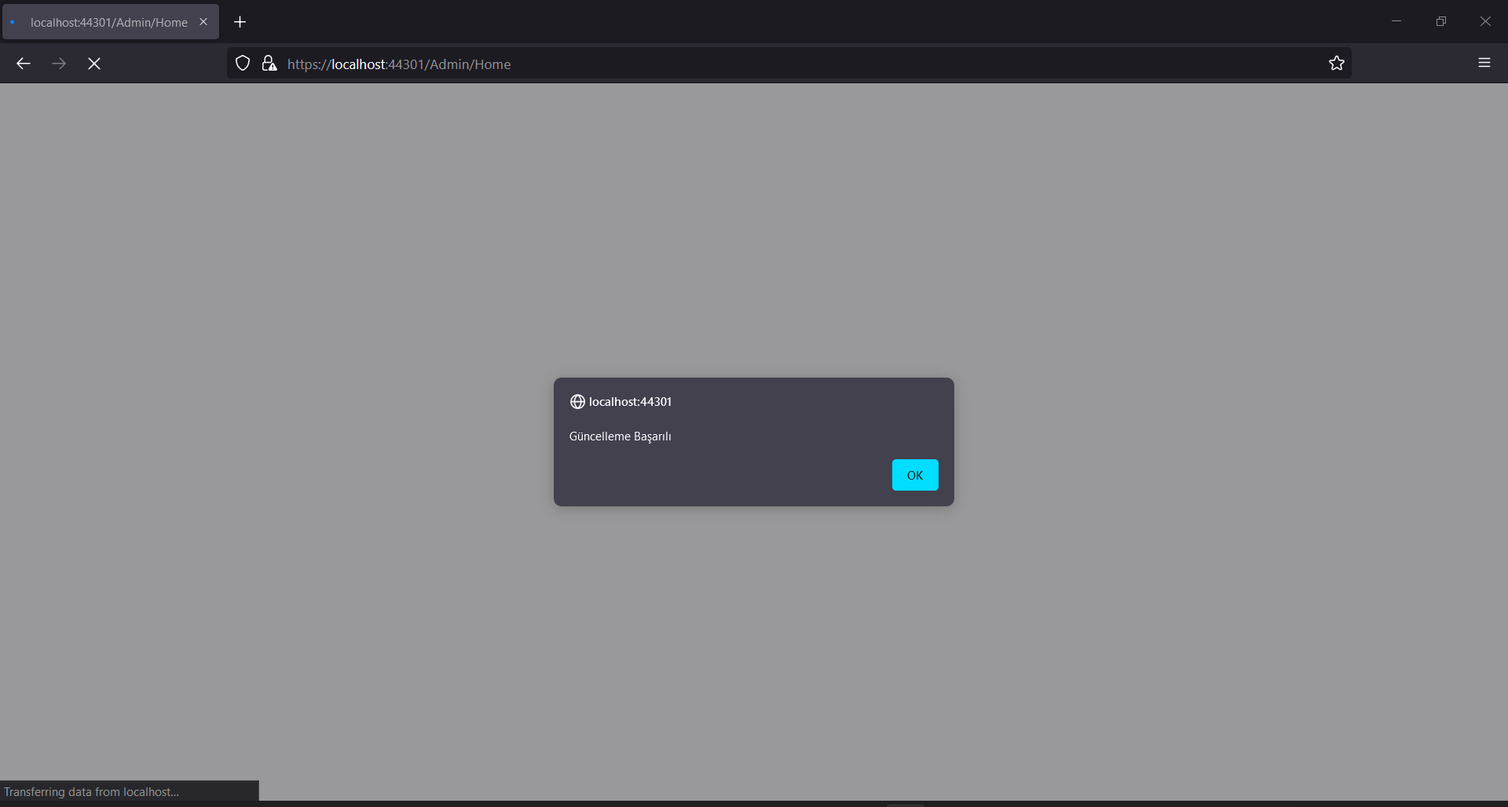
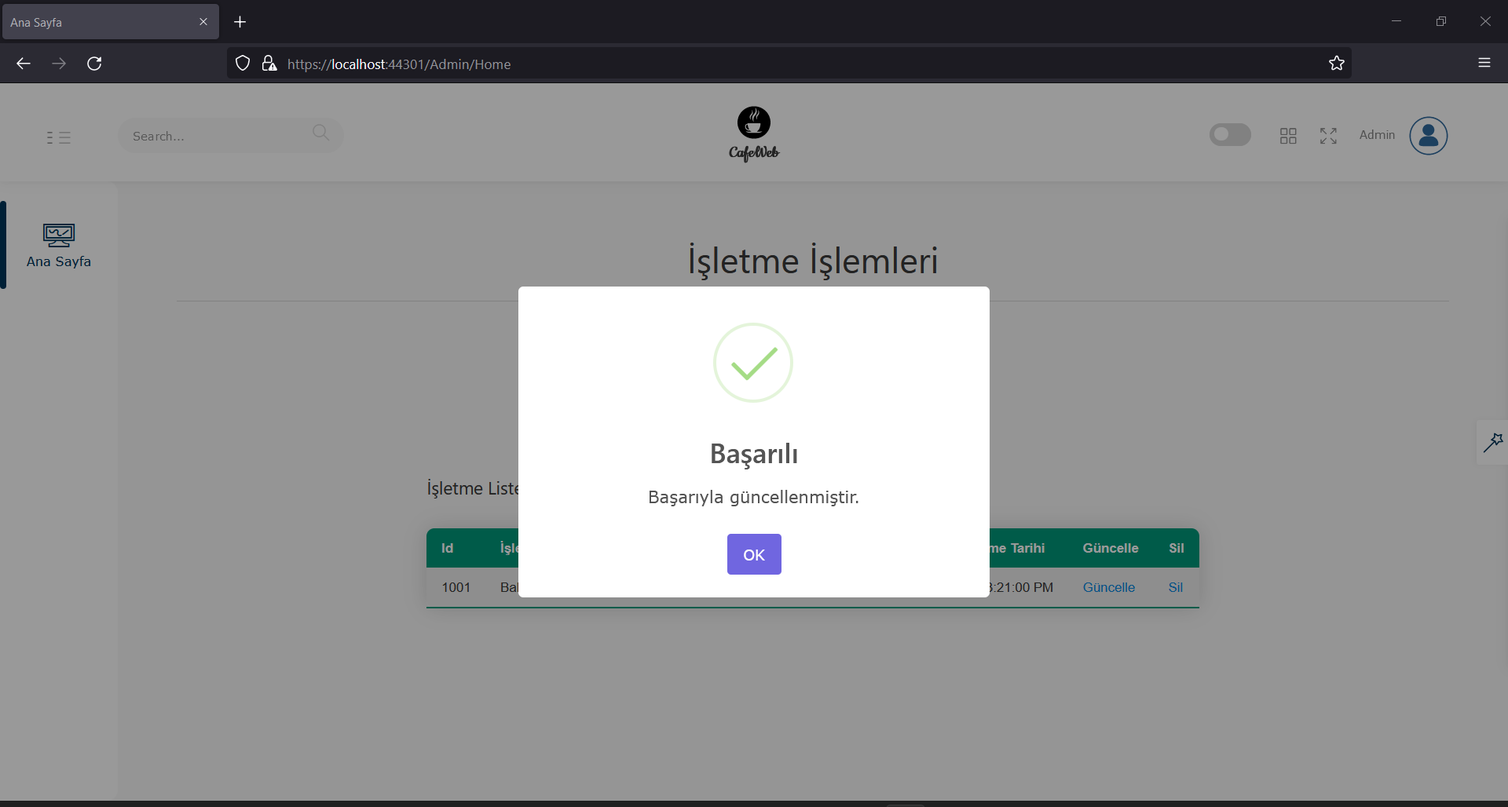
Popup ekran güncellemesi ve bazı kontroller

diff --git a/CafeWeb/Users/assets/css/sweetalert2.min.css b/CafeWeb/Users/assets/css/sweetalert2.min.css
@@ -1,0 +1,1 @@
+.swal2-popup.swal2-toast{box-sizing:border-box;grid-column:1/4!important;grid-row:1/4!important;grid-template-columns:1fr 99fr 1fr;padding:1em;overflow-y:hidden;background:#fff;box-shadow:0 0 1px rgba(0,0,0,.075),0 1px 2px rgba(0,0,0,.075),1px 2px 4px rgba(0,0,0,.075),1px 3px 8px rgba(0,0,0,.075),2px 4px 16px rgba(0,0,0,.075);pointer-events:all}.swal2-popup.swal2-toast>*{grid-column:2}.swal2-popup.swal2-toast .swal2-title{margin:.5em 1em;padding:0;font-size:1em;text-align:initial}.swal2-popup.swal2-toast .swal2-loading{justify-content:center}.swal2-popup.swal2-toast .swal2-input{height:2em;margin:.5em;font-size:1em}.swal2-popup.swal2-toast .swal2-validation-message{font-size:1em}.swal2-popup.swal2-toast .swal2-footer{margin:.5em 0 0;padding:.5em 0 0;font-size:.8em}.swal2-popup.swal2-toast .swal2-close{grid-column:3/3;grid-row:1/99;align-self:center;width:.8em;height:.8em;margin:0;font-size:2em}.swal2-popup.swal2-toast .swal2-html-container{margin:.5em 1em;padding:0;font-size:1em;text-align:initial}.swal2-popup.swal2-toast .swal2-html-container:empty{padding:0}.swal2-popup.swal2-toast .swal2-loader{grid-column:1;grid-row:1/99;align-self:center;width:2em;height:2em;margin:.25em}.swal2-popup.swal2-toast .swal2-icon{grid-column:1;grid-row:1/99;align-self:center;width:2em;min-width:2em;height:2em;margin:0 .5em 0 0}.swal2-popup.swal2-toast .swal2-icon .swal2-icon-content{display:flex;align-items:center;font-size:1.8em;font-weight:700}.swal2-popup.swal2-toast .swal2-icon.swal2-success .swal2-success-ring{width:2em;height:2em}.swal2-popup.swal2-toast .swal2-icon.swal2-error [class^=swal2-x-mark-line]{top:.875em;width:1.375em}.swal2-popup.swal2-toast .swal2-icon.swal2-error [class^=swal2-x-mark-line][class$=left]{left:.3125em}.swal2-popup.swal2-toast .swal2-icon.swal2-error [class^=swal2-x-mark-line][class$=right]{right:.3125em}.swal2-popup.swal2-toast .swal2-actions{justify-content:flex-start;height:auto;margin:0;margin-top:.5em;padding:0 .5em}.swal2-popup.swal2-toast .swal2-styled{margin:.25em .5em;padding:.4em .6em;font-size:1em}.swal2-popup.swal2-toast .swal2-success{border-color:#a5dc86}.swal2-popup.swal2-toast .swal2-success [class^=swal2-success-circular-line]{position:absolute;width:1.6em;height:3em;transform:rotate(45deg);border-radius:50%}.swal2-popup.swal2-toast .swal2-success [class^=swal2-success-circular-line][class$=left]{top:-.8em;left:-.5em;transform:rotate(-45deg);transform-origin:2em 2em;border-radius:4em 0 0 4em}.swal2-popup.swal2-toast .swal2-success [class^=swal2-success-circular-line][class$=right]{top:-.25em;left:.9375em;transform-origin:0 1.5em;border-radius:0 4em 4em 0}.swal2-popup.swal2-toast .swal2-success .swal2-success-ring{width:2em;height:2em}.swal2-popup.swal2-toast .swal2-success .swal2-success-fix{top:0;left:.4375em;width:.4375em;height:2.6875em}.swal2-popup.swal2-toast .swal2-success [class^=swal2-success-line]{height:.3125em}.swal2-popup.swal2-toast .swal2-success [class^=swal2-success-line][class$=tip]{top:1.125em;left:.1875em;width:.75em}.swal2-popup.swal2-toast .swal2-success [class^=swal2-success-line][class$=long]{top:.9375em;right:.1875em;width:1.375em}.swal2-popup.swal2-toast .swal2-success.swal2-icon-show .swal2-success-line-tip{-webkit-animation:swal2-toast-animate-success-line-tip .75s;animation:swal2-toast-animate-success-line-tip .75s}.swal2-popup.swal2-toast .swal2-success.swal2-icon-show .swal2-success-line-long{-webkit-animation:swal2-toast-animate-success-line-long .75s;animation:swal2-toast-animate-success-line-long .75s}.swal2-popup.swal2-toast.swal2-show{-webkit-animation:swal2-toast-show .5s;animation:swal2-toast-show .5s}.swal2-popup.swal2-toast.swal2-hide{-webkit-animation:swal2-toast-hide .1s forwards;animation:swal2-toast-hide .1s forwards}.swal2-container{display:grid;position:fixed;z-index:1060;top:0;right:0;bottom:0;left:0;box-sizing:border-box;grid-template-areas:"top-start     top            top-end" "center-start  center         center-end" "bottom-start  bottom-center  bottom-end";grid-template-rows:minmax(-webkit-min-content,auto) minmax(-webkit-min-content,auto) minmax(-webkit-min-content,auto);grid-template-rows:minmax(min-content,auto) minmax(min-content,auto) minmax(min-content,auto);height:100%;padding:.625em;overflow-x:hidden;transition:background-color .1s;-webkit-overflow-scrolling:touch}.swal2-container.swal2-backdrop-show,.swal2-container.swal2-noanimation{background:rgba(0,0,0,.4)}.swal2-container.swal2-backdrop-hide{background:0 0!important}.swal2-container.swal2-bottom-start,.swal2-container.swal2-center-start,.swal2-container.swal2-top-start{grid-template-columns:minmax(0,1fr) auto auto}.swal2-container.swal2-bottom,.swal2-container.swal2-center,.swal2-container.swal2-top{grid-template-columns:auto minmax(0,1fr) auto}.swal2-container.swal2-bottom-end,.swal2-container.swal2-center-end,.swal2-container.swal2-top-end{grid-template-columns:auto auto minmax(0,1fr)}.swal2-container.swal2-top-start>.swal2-popup{align-self:start}.swal2-container.swal2-top>.swal2-popup{grid-column:2;align-self:start;justify-self:center}.swal2-container.swal2-top-end>.swal2-popup,.swal2-container.swal2-top-right>.swal2-popup{grid-column:3;align-self:start;justify-self:end}.swal2-container.swal2-center-left>.swal2-popup,.swal2-container.swal2-center-start>.swal2-popup{grid-row:2;align-self:center}.swal2-container.swal2-center>.swal2-popup{grid-column:2;grid-row:2;align-self:center;justify-self:center}.swal2-container.swal2-center-end>.swal2-popup,.swal2-container.swal2-center-right>.swal2-popup{grid-column:3;grid-row:2;align-self:center;justify-self:end}.swal2-container.swal2-bottom-left>.swal2-popup,.swal2-container.swal2-bottom-start>.swal2-popup{grid-column:1;grid-row:3;align-self:end}.swal2-container.swal2-bottom>.swal2-popup{grid-column:2;grid-row:3;justify-self:center;align-self:end}.swal2-container.swal2-bottom-end>.swal2-popup,.swal2-container.swal2-bottom-right>.swal2-popup{grid-column:3;grid-row:3;align-self:end;justify-self:end}.swal2-container.swal2-grow-fullscreen>.swal2-popup,.swal2-container.swal2-grow-row>.swal2-popup{grid-column:1/4;width:100%}.swal2-container.swal2-grow-column>.swal2-popup,.swal2-container.swal2-grow-fullscreen>.swal2-popup{grid-row:1/4;align-self:stretch}.swal2-container.swal2-no-transition{transition:none!important}.swal2-popup{display:none;position:relative;box-sizing:border-box;grid-template-columns:minmax(0,100%);width:32em;max-width:100%;padding:0 0 1.25em;border:none;border-radius:5px;background:#fff;color:#545454;font-family:inherit;font-size:1rem}.swal2-popup:focus{outline:0}.swal2-popup.swal2-loading{overflow-y:hidden}.swal2-title{position:relative;max-width:100%;margin:0;padding:.8em 1em 0;color:inherit;font-size:1.875em;font-weight:600;text-align:center;text-transform:none;word-wrap:break-word}.swal2-actions{display:flex;z-index:1;box-sizing:border-box;flex-wrap:wrap;align-items:center;justify-content:center;width:auto;margin:1.25em auto 0;padding:0}.swal2-actions:not(.swal2-loading) .swal2-styled[disabled]{opacity:.4}.swal2-actions:not(.swal2-loading) .swal2-styled:hover{background-image:linear-gradient(rgba(0,0,0,.1),rgba(0,0,0,.1))}.swal2-actions:not(.swal2-loading) .swal2-styled:active{background-image:linear-gradient(rgba(0,0,0,.2),rgba(0,0,0,.2))}.swal2-loader{display:none;align-items:center;justify-content:center;width:2.2em;height:2.2em;margin:0 1.875em;-webkit-animation:swal2-rotate-loading 1.5s linear 0s infinite normal;animation:swal2-rotate-loading 1.5s linear 0s infinite normal;border-width:.25em;border-style:solid;border-radius:100%;border-color:#2778c4 transparent #2778c4 transparent}.swal2-styled{margin:.3125em;padding:.625em 1.1em;transition:box-shadow .1s;box-shadow:0 0 0 3px transparent;font-weight:500}.swal2-styled:not([disabled]){cursor:pointer}.swal2-styled.swal2-confirm{border:0;border-radius:.25em;background:initial;background-color:#7066e0;color:#fff;font-size:1em}.swal2-styled.swal2-confirm:focus{box-shadow:0 0 0 3px rgba(112,102,224,.5)}.swal2-styled.swal2-deny{border:0;border-radius:.25em;background:initial;background-color:#dc3741;color:#fff;font-size:1em}.swal2-styled.swal2-deny:focus{box-shadow:0 0 0 3px rgba(220,55,65,.5)}.swal2-styled.swal2-cancel{border:0;border-radius:.25em;background:initial;background-color:#6e7881;color:#fff;font-size:1em}.swal2-styled.swal2-cancel:focus{box-shadow:0 0 0 3px rgba(110,120,129,.5)}.swal2-styled.swal2-default-outline:focus{box-shadow:0 0 0 3px rgba(100,150,200,.5)}.swal2-styled:focus{outline:0}.swal2-styled::-moz-focus-inner{border:0}.swal2-footer{justify-content:center;margin:1em 0 0;padding:1em 1em 0;border-top:1px solid #eee;color:inherit;font-size:1em}.swal2-timer-progress-bar-container{position:absolute;right:0;bottom:0;left:0;grid-column:auto!important;overflow:hidden;border-bottom-right-radius:5px;border-bottom-left-radius:5px}.swal2-timer-progress-bar{width:100%;height:.25em;background:rgba(0,0,0,.2)}.swal2-image{max-width:100%;margin:2em auto 1em}.swal2-close{z-index:2;align-items:center;justify-content:center;width:1.2em;height:1.2em;margin-top:0;margin-right:0;margin-bottom:-1.2em;padding:0;overflow:hidden;transition:color .1s,box-shadow .1s;border:none;border-radius:5px;background:0 0;color:#ccc;font-family:serif;font-family:monospace;font-size:2.5em;cursor:pointer;justify-self:end}.swal2-close:hover{transform:none;background:0 0;color:#f27474}.swal2-close:focus{outline:0;box-shadow:inset 0 0 0 3px rgba(100,150,200,.5)}.swal2-close::-moz-focus-inner{border:0}.swal2-html-container{z-index:1;justify-content:center;margin:1em 1.6em .3em;padding:0;overflow:auto;color:inherit;font-size:1.125em;font-weight:400;line-height:normal;text-align:center;word-wrap:break-word;word-break:break-word}.swal2-checkbox,.swal2-file,.swal2-input,.swal2-radio,.swal2-select,.swal2-textarea{margin:1em 2em 3px}.swal2-file,.swal2-input,.swal2-textarea{box-sizing:border-box;width:auto;transition:border-color .1s,box-shadow .1s;border:1px solid #d9d9d9;border-radius:.1875em;background:inherit;box-shadow:inset 0 1px 1px rgba(0,0,0,.06),0 0 0 3px transparent;color:inherit;font-size:1.125em}.swal2-file.swal2-inputerror,.swal2-input.swal2-inputerror,.swal2-textarea.swal2-inputerror{border-color:#f27474!important;box-shadow:0 0 2px #f27474!important}.swal2-file:focus,.swal2-input:focus,.swal2-textarea:focus{border:1px solid #b4dbed;outline:0;box-shadow:inset 0 1px 1px rgba(0,0,0,.06),0 0 0 3px rgba(100,150,200,.5)}.swal2-file::-moz-placeholder,.swal2-input::-moz-placeholder,.swal2-textarea::-moz-placeholder{color:#ccc}.swal2-file:-ms-input-placeholder,.swal2-input:-ms-input-placeholder,.swal2-textarea:-ms-input-placeholder{color:#ccc}.swal2-file::placeholder,.swal2-input::placeholder,.swal2-textarea::placeholder{color:#ccc}.swal2-range{margin:1em 2em 3px;background:#fff}.swal2-range input{width:80%}.swal2-range output{width:20%;color:inherit;font-weight:600;text-align:center}.swal2-range input,.swal2-range output{height:2.625em;padding:0;font-size:1.125em;line-height:2.625em}.swal2-input{height:2.625em;padding:0 .75em}.swal2-file{width:75%;margin-right:auto;margin-left:auto;background:inherit;font-size:1.125em}.swal2-textarea{height:6.75em;padding:.75em}.swal2-select{min-width:50%;max-width:100%;padding:.375em .625em;background:inherit;color:inherit;font-size:1.125em}.swal2-checkbox,.swal2-radio{align-items:center;justify-content:center;background:#fff;color:inherit}.swal2-checkbox label,.swal2-radio label{margin:0 .6em;font-size:1.125em}.swal2-checkbox input,.swal2-radio input{flex-shrink:0;margin:0 .4em}.swal2-input-label{display:flex;justify-content:center;margin:1em auto 0}.swal2-validation-message{align-items:center;justify-content:center;margin:1em 0 0;padding:.625em;overflow:hidden;background:#f0f0f0;color:#666;font-size:1em;font-weight:300}.swal2-validation-message::before{content:"!";display:inline-block;width:1.5em;min-width:1.5em;height:1.5em;margin:0 .625em;border-radius:50%;background-color:#f27474;color:#fff;font-weight:600;line-height:1.5em;text-align:center}.swal2-icon{position:relative;box-sizing:content-box;justify-content:center;width:5em;height:5em;margin:2.5em auto .6em;border:.25em solid transparent;border-radius:50%;border-color:#000;font-family:inherit;line-height:5em;cursor:default;-webkit-user-select:none;-moz-user-select:none;-ms-user-select:none;user-select:none}.swal2-icon .swal2-icon-content{display:flex;align-items:center;font-size:3.75em}.swal2-icon.swal2-error{border-color:#f27474;color:#f27474}.swal2-icon.swal2-error .swal2-x-mark{position:relative;flex-grow:1}.swal2-icon.swal2-error [class^=swal2-x-mark-line]{display:block;position:absolute;top:2.3125em;width:2.9375em;height:.3125em;border-radius:.125em;background-color:#f27474}.swal2-icon.swal2-error [class^=swal2-x-mark-line][class$=left]{left:1.0625em;transform:rotate(45deg)}.swal2-icon.swal2-error [class^=swal2-x-mark-line][class$=right]{right:1em;transform:rotate(-45deg)}.swal2-icon.swal2-error.swal2-icon-show{-webkit-animation:swal2-animate-error-icon .5s;animation:swal2-animate-error-icon .5s}.swal2-icon.swal2-error.swal2-icon-show .swal2-x-mark{-webkit-animation:swal2-animate-error-x-mark .5s;animation:swal2-animate-error-x-mark .5s}.swal2-icon.swal2-warning{border-color:#facea8;color:#f8bb86}.swal2-icon.swal2-warning.swal2-icon-show{-webkit-animation:swal2-animate-error-icon .5s;animation:swal2-animate-error-icon .5s}.swal2-icon.swal2-warning.swal2-icon-show .swal2-icon-content{-webkit-animation:swal2-animate-i-mark .5s;animation:swal2-animate-i-mark .5s}.swal2-icon.swal2-info{border-color:#9de0f6;color:#3fc3ee}.swal2-icon.swal2-info.swal2-icon-show{-webkit-animation:swal2-animate-error-icon .5s;animation:swal2-animate-error-icon .5s}.swal2-icon.swal2-info.swal2-icon-show .swal2-icon-content{-webkit-animation:swal2-animate-i-mark .8s;animation:swal2-animate-i-mark .8s}.swal2-icon.swal2-question{border-color:#c9dae1;color:#87adbd}.swal2-icon.swal2-question.swal2-icon-show{-webkit-animation:swal2-animate-error-icon .5s;animation:swal2-animate-error-icon .5s}.swal2-icon.swal2-question.swal2-icon-show .swal2-icon-content{-webkit-animation:swal2-animate-question-mark .8s;animation:swal2-animate-question-mark .8s}.swal2-icon.swal2-success{border-color:#a5dc86;color:#a5dc86}.swal2-icon.swal2-success [class^=swal2-success-circular-line]{position:absolute;width:3.75em;height:7.5em;transform:rotate(45deg);border-radius:50%}.swal2-icon.swal2-success [class^=swal2-success-circular-line][class$=left]{top:-.4375em;left:-2.0635em;transform:rotate(-45deg);transform-origin:3.75em 3.75em;border-radius:7.5em 0 0 7.5em}.swal2-icon.swal2-success [class^=swal2-success-circular-line][class$=right]{top:-.6875em;left:1.875em;transform:rotate(-45deg);transform-origin:0 3.75em;border-radius:0 7.5em 7.5em 0}.swal2-icon.swal2-success .swal2-success-ring{position:absolute;z-index:2;top:-.25em;left:-.25em;box-sizing:content-box;width:100%;height:100%;border:.25em solid rgba(165,220,134,.3);border-radius:50%}.swal2-icon.swal2-success .swal2-success-fix{position:absolute;z-index:1;top:.5em;left:1.625em;width:.4375em;height:5.625em;transform:rotate(-45deg)}.swal2-icon.swal2-success [class^=swal2-success-line]{display:block;position:absolute;z-index:2;height:.3125em;border-radius:.125em;background-color:#a5dc86}.swal2-icon.swal2-success [class^=swal2-success-line][class$=tip]{top:2.875em;left:.8125em;width:1.5625em;transform:rotate(45deg)}.swal2-icon.swal2-success [class^=swal2-success-line][class$=long]{top:2.375em;right:.5em;width:2.9375em;transform:rotate(-45deg)}.swal2-icon.swal2-success.swal2-icon-show .swal2-success-line-tip{-webkit-animation:swal2-animate-success-line-tip .75s;animation:swal2-animate-success-line-tip .75s}.swal2-icon.swal2-success.swal2-icon-show .swal2-success-line-long{-webkit-animation:swal2-animate-success-line-long .75s;animation:swal2-animate-success-line-long .75s}.swal2-icon.swal2-success.swal2-icon-show .swal2-success-circular-line-right{-webkit-animation:swal2-rotate-success-circular-line 4.25s ease-in;animation:swal2-rotate-success-circular-line 4.25s ease-in}.swal2-progress-steps{flex-wrap:wrap;align-items:center;max-width:100%;margin:1.25em auto;padding:0;background:inherit;font-weight:600}.swal2-progress-steps li{display:inline-block;position:relative}.swal2-progress-steps .swal2-progress-step{z-index:20;flex-shrink:0;width:2em;height:2em;border-radius:2em;background:#2778c4;color:#fff;line-height:2em;text-align:center}.swal2-progress-steps .swal2-progress-step.swal2-active-progress-step{background:#2778c4}.swal2-progress-steps .swal2-progress-step.swal2-active-progress-step~.swal2-progress-step{background:#add8e6;color:#fff}.swal2-progress-steps .swal2-progress-step.swal2-active-progress-step~.swal2-progress-step-line{background:#add8e6}.swal2-progress-steps .swal2-progress-step-line{z-index:10;flex-shrink:0;width:2.5em;height:.4em;margin:0 -1px;background:#2778c4}[class^=swal2]{-webkit-tap-highlight-color:transparent}.swal2-show{-webkit-animation:swal2-show .3s;animation:swal2-show .3s}.swal2-hide{-webkit-animation:swal2-hide .15s forwards;animation:swal2-hide .15s forwards}.swal2-noanimation{transition:none}.swal2-scrollbar-measure{position:absolute;top:-9999px;width:50px;height:50px;overflow:scroll}.swal2-rtl .swal2-close{margin-right:initial;margin-left:0}.swal2-rtl .swal2-timer-progress-bar{right:0;left:auto}@-webkit-keyframes swal2-toast-show{0%{transform:translateY(-.625em) rotateZ(2deg)}33%{transform:translateY(0) rotateZ(-2deg)}66%{transform:translateY(.3125em) rotateZ(2deg)}100%{transform:translateY(0) rotateZ(0)}}@keyframes swal2-toast-show{0%{transform:translateY(-.625em) rotateZ(2deg)}33%{transform:translateY(0) rotateZ(-2deg)}66%{transform:translateY(.3125em) rotateZ(2deg)}100%{transform:translateY(0) rotateZ(0)}}@-webkit-keyframes swal2-toast-hide{100%{transform:rotateZ(1deg);opacity:0}}@keyframes swal2-toast-hide{100%{transform:rotateZ(1deg);opacity:0}}@-webkit-keyframes swal2-toast-animate-success-line-tip{0%{top:.5625em;left:.0625em;width:0}54%{top:.125em;left:.125em;width:0}70%{top:.625em;left:-.25em;width:1.625em}84%{top:1.0625em;left:.75em;width:.5em}100%{top:1.125em;left:.1875em;width:.75em}}@keyframes swal2-toast-animate-success-line-tip{0%{top:.5625em;left:.0625em;width:0}54%{top:.125em;left:.125em;width:0}70%{top:.625em;left:-.25em;width:1.625em}84%{top:1.0625em;left:.75em;width:.5em}100%{top:1.125em;left:.1875em;width:.75em}}@-webkit-keyframes swal2-toast-animate-success-line-long{0%{top:1.625em;right:1.375em;width:0}65%{top:1.25em;right:.9375em;width:0}84%{top:.9375em;right:0;width:1.125em}100%{top:.9375em;right:.1875em;width:1.375em}}@keyframes swal2-toast-animate-success-line-long{0%{top:1.625em;right:1.375em;width:0}65%{top:1.25em;right:.9375em;width:0}84%{top:.9375em;right:0;width:1.125em}100%{top:.9375em;right:.1875em;width:1.375em}}@-webkit-keyframes swal2-show{0%{transform:scale(.7)}45%{transform:scale(1.05)}80%{transform:scale(.95)}100%{transform:scale(1)}}@keyframes swal2-show{0%{transform:scale(.7)}45%{transform:scale(1.05)}80%{transform:scale(.95)}100%{transform:scale(1)}}@-webkit-keyframes swal2-hide{0%{transform:scale(1);opacity:1}100%{transform:scale(.5);opacity:0}}@keyframes swal2-hide{0%{transform:scale(1);opacity:1}100%{transform:scale(.5);opacity:0}}@-webkit-keyframes swal2-animate-success-line-tip{0%{top:1.1875em;left:.0625em;width:0}54%{top:1.0625em;left:.125em;width:0}70%{top:2.1875em;left:-.375em;width:3.125em}84%{top:3em;left:1.3125em;width:1.0625em}100%{top:2.8125em;left:.8125em;width:1.5625em}}@keyframes swal2-animate-success-line-tip{0%{top:1.1875em;left:.0625em;width:0}54%{top:1.0625em;left:.125em;width:0}70%{top:2.1875em;left:-.375em;width:3.125em}84%{top:3em;left:1.3125em;width:1.0625em}100%{top:2.8125em;left:.8125em;width:1.5625em}}@-webkit-keyframes swal2-animate-success-line-long{0%{top:3.375em;right:2.875em;width:0}65%{top:3.375em;right:2.875em;width:0}84%{top:2.1875em;right:0;width:3.4375em}100%{top:2.375em;right:.5em;width:2.9375em}}@keyframes swal2-animate-success-line-long{0%{top:3.375em;right:2.875em;width:0}65%{top:3.375em;right:2.875em;width:0}84%{top:2.1875em;right:0;width:3.4375em}100%{top:2.375em;right:.5em;width:2.9375em}}@-webkit-keyframes swal2-rotate-success-circular-line{0%{transform:rotate(-45deg)}5%{transform:rotate(-45deg)}12%{transform:rotate(-405deg)}100%{transform:rotate(-405deg)}}@keyframes swal2-rotate-success-circular-line{0%{transform:rotate(-45deg)}5%{transform:rotate(-45deg)}12%{transform:rotate(-405deg)}100%{transform:rotate(-405deg)}}@-webkit-keyframes swal2-animate-error-x-mark{0%{margin-top:1.625em;transform:scale(.4);opacity:0}50%{margin-top:1.625em;transform:scale(.4);opacity:0}80%{margin-top:-.375em;transform:scale(1.15)}100%{margin-top:0;transform:scale(1);opacity:1}}@keyframes swal2-animate-error-x-mark{0%{margin-top:1.625em;transform:scale(.4);opacity:0}50%{margin-top:1.625em;transform:scale(.4);opacity:0}80%{margin-top:-.375em;transform:scale(1.15)}100%{margin-top:0;transform:scale(1);opacity:1}}@-webkit-keyframes swal2-animate-error-icon{0%{transform:rotateX(100deg);opacity:0}100%{transform:rotateX(0);opacity:1}}@keyframes swal2-animate-error-icon{0%{transform:rotateX(100deg);opacity:0}100%{transform:rotateX(0);opacity:1}}@-webkit-keyframes swal2-rotate-loading{0%{transform:rotate(0)}100%{transform:rotate(360deg)}}@keyframes swal2-rotate-loading{0%{transform:rotate(0)}100%{transform:rotate(360deg)}}@-webkit-keyframes swal2-animate-question-mark{0%{transform:rotateY(-360deg)}100%{transform:rotateY(0)}}@keyframes swal2-animate-question-mark{0%{transform:rotateY(-360deg)}100%{transform:rotateY(0)}}@-webkit-keyframes swal2-animate-i-mark{0%{transform:rotateZ(45deg);opacity:0}25%{transform:rotateZ(-25deg);opacity:.4}50%{transform:rotateZ(15deg);opacity:.8}75%{transform:rotateZ(-5deg);opacity:1}100%{transform:rotateX(0);opacity:1}}@keyframes swal2-animate-i-mark{0%{transform:rotateZ(45deg);opacity:0}25%{transform:rotateZ(-25deg);opacity:.4}50%{transform:rotateZ(15deg);opacity:.8}75%{transform:rotateZ(-5deg);opacity:1}100%{transform:rotateX(0);opacity:1}}body.swal2-shown:not(.swal2-no-backdrop):not(.swal2-toast-shown){overflow:hidden}body.swal2-height-auto{height:auto!important}body.swal2-no-backdrop .swal2-container{background-color:transparent!important;pointer-events:none}body.swal2-no-backdrop .swal2-container .swal2-popup{pointer-events:all}body.swal2-no-backdrop .swal2-container .swal2-modal{box-shadow:0 0 10px rgba(0,0,0,.4)}@media print{body.swal2-shown:not(.swal2-no-backdrop):not(.swal2-toast-shown){overflow-y:scroll!important}body.swal2-shown:not(.swal2-no-backdrop):not(.swal2-toast-shown)>[aria-hidden=true]{display:none}body.swal2-shown:not(.swal2-no-backdrop):not(.swal2-toast-shown) .swal2-container{position:static!important}}body.swal2-toast-shown .swal2-container{box-sizing:border-box;width:360px;max-width:100%;background-color:transparent;pointer-events:none}body.swal2-toast-shown .swal2-container.swal2-top{top:0;right:auto;bottom:auto;left:50%;transform:translateX(-50%)}body.swal2-toast-shown .swal2-container.swal2-top-end,body.swal2-toast-shown .swal2-container.swal2-top-right{top:0;right:0;bottom:auto;left:auto}body.swal2-toast-shown .swal2-container.swal2-top-left,body.swal2-toast-shown .swal2-container.swal2-top-start{top:0;right:auto;bottom:auto;left:0}body.swal2-toast-shown .swal2-container.swal2-center-left,body.swal2-toast-shown .swal2-container.swal2-center-start{top:50%;right:auto;bottom:auto;left:0;transform:translateY(-50%)}body.swal2-toast-shown .swal2-container.swal2-center{top:50%;right:auto;bottom:auto;left:50%;transform:translate(-50%,-50%)}body.swal2-toast-shown .swal2-container.swal2-center-end,body.swal2-toast-shown .swal2-container.swal2-center-right{top:50%;right:0;bottom:auto;left:auto;transform:translateY(-50%)}body.swal2-toast-shown .swal2-container.swal2-bottom-left,body.swal2-toast-shown .swal2-container.swal2-bottom-start{top:auto;right:auto;bottom:0;left:0}body.swal2-toast-shown .swal2-container.swal2-bottom{top:auto;right:auto;bottom:0;left:50%;transform:translateX(-50%)}body.swal2-toast-shown .swal2-container.swal2-bottom-end,body.swal2-toast-shown .swal2-container.swal2-bottom-right{top:auto;right:0;bottom:0;left:auto}

diff --git a/CafeWeb/Users/Admin/Home.aspx.cs b/CafeWeb/Users/Admin/Home.aspx.cs
@@ -4,6 +4,7 @@ using WebClasses;
 using Database;
 using System.Linq;
 using System.Web.UI.WebControls;
+using System.Web.UI;
 using System.Web.UI.HtmlControls;
 
 namespace CafeWebAdmin
@@ -32,11 +33,11 @@ namespace CafeWebAdmin
             var result = ApplicationDBContext.SetOrg(OrgName.Value.Trim().ToString(), OrgisActive.Checked);
             if (result == '0')
             {
-                Response.Write("<script>alert('Kayıt Başarılı');</script>");
+                resultEl.InnerText = "0";
             }
             else
             {
-                Response.Write("<script>alert('Kayıt Başarısız!');</script>");
+                resultEl.InnerText = "1:Kayıt Başarısız";
             }
             OrgName.Value = "";
             OrgisActive.Checked = false;
@@ -50,11 +51,11 @@ namespace CafeWebAdmin
                                                         OrgUpdateActive.Checked);
             if (result == '0')
             {
-                Response.Write("<script>alert('Güncelleme Başarılı');</script>");
+                resultEl.InnerText = "0";
             }
             else
             {
-                Response.Write("<script>alert('Güncelleme Başarısız!');</script>");
+                resultEl.InnerText = "1:Güncelleme Başarısız!";
             }
             OrgView.DataBind();
             UserView.DataBind();
@@ -68,15 +69,15 @@ namespace CafeWebAdmin
 
             if (result == '0')
             {
-                Response.Write("<script>alert('Kayıt Başarılı');</script>");
+                resultEl.InnerText = "0";
             }
             else if (result == '1')
             {
-                Response.Write("<script>alert('Aktif böyle bir işletme yok!');</script>");
+                resultEl.InnerText = "1:Böyle bir işletme yok!";
             }
             else
             {
-                Response.Write("<script>alert('Bu kullanıcı adında biri zaten kayıtlı');</script>");
+                resultEl.InnerText = "2:Bu kullanıcı adında biri zaten kayıtlı!";
             }
             UserOrgId.Value = "";
             UserSetName.Value = "";

diff --git a/Database/ApplicationDBContext.cs b/Database/ApplicationDBContext.cs
@@ -61,15 +61,26 @@ namespace Database
         {
             using (CafeDataBaseEntities db = new CafeDataBaseEntities())
             {
-                
-                var obj = db.Orgs.SingleOrDefault(a => a.Id.ToString() == orgId);
 
-                if (obj != null)
+                var org = db.Orgs.SingleOrDefault(a => a.Id.ToString() == orgId);
+
+                var pers = from Users in db.Users where Users.OrgFk.ToString() == orgId select Users;
+
+                if (org != null)
                 {
-                    obj.OrgName = orgName;
-                    obj.isActive = isActive;
                     DateTime date = DateTime.Now;
-                    obj.ChangedAt = date;
+
+                    org.OrgName = orgName;
+                    org.isActive = isActive;
+                    org.ChangedAt = date;
+                    db.SaveChanges();
+
+                    foreach (var user in pers)
+                    {
+                        user.isActive = isActive;
+                        user.ChangedAt = date;
+                    }
+
                     db.SaveChanges();
 
                     return '0';

diff --git a/CafeWeb/Users/Admin/Home.aspx.designer.cs b/CafeWeb/Users/Admin/Home.aspx.designer.cs
@@ -175,5 +175,14 @@ namespace CafeWebAdmin
         /// To modify move field declaration from designer file to code-behind file.
         /// </remarks>
         protected global::System.Web.UI.HtmlControls.HtmlAnchor SaveUserBtn;
+
+        /// <summary>
+        /// resultEl control.
+        /// </summary>
+        /// <remarks>
+        /// Auto-generated field.
+        /// To modify move field declaration from designer file to code-behind file.
+        /// </remarks>
+        protected global::System.Web.UI.HtmlControls.HtmlGenericControl resultEl;
     }
 }
